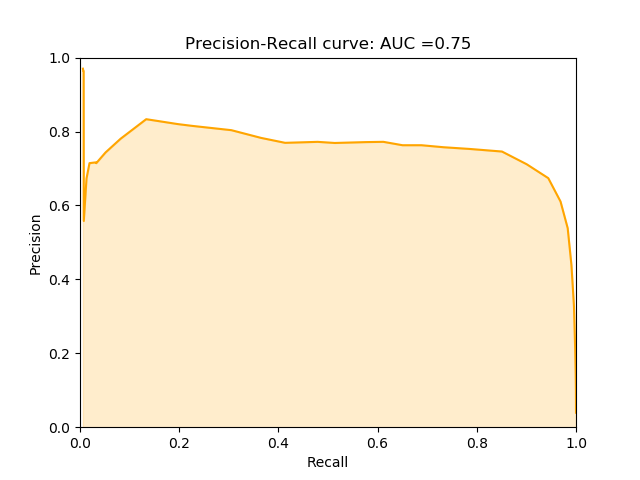
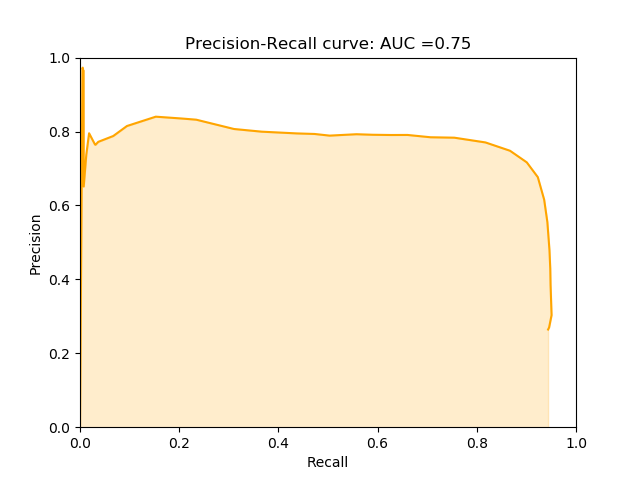
remove shadows

Changed region(s): [[0.1875, 0.2188, 0.9062, 0.9062], [0.125, 0.25, 0.1875, 0.4688]]

diff --git a/video_surveillance.py b/video_surveillance.py
@@ -350,9 +350,21 @@ def foreground_estimation(cf):
                         foreground = foreground_improving.remove_small_regions(foreground, cf.area_filtering_P)
 
                     if cf.task_name == 'task3':
-                        foreground = foreground_improving.image_opening(foreground, cf.opening_strel, cf.opening_strel_size)
+                        if cf.dataset_name == 'traffic':
+                            foreground = foreground_improving.image_opening(foreground, cf.opening_strel,
+                                                                            cf.opening_strel_size)
 
-                        foreground = foreground_improving.image_closing(foreground, cf.closing_strel, cf.closing_strel_size)
+                            foreground = foreground_improving.image_closing(foreground, cf.closing_strel,
+                                                                            cf.closing_strel_size)
+                        elif cf.dataset_name == 'fall':
+                            pass
+
+                        elif cf.dataset_name == 'highway':
+                            pass
+
+                    if cf.shadow_remove:
+                        shadow, highlight = foreground_improving.shadow_detection(cf, mean, image, foreground)
+                        foreground = foreground - shadow - highlight
 
                     foreground = np.array(foreground, dtype='uint8')
                     tp_temp, fp_temp, tn_temp, fn_temp = seg_metrics.evaluate_single_image(foreground,
@@ -418,10 +430,16 @@ def foreground_estimation(cf):
                         elif cf.dataset_name == 'highway':
                             pass
 
-
-                    fore = np.array(foreground, dtype='uint8') * 255
                     image_name = os.path.basename(image)
                     image_name = os.path.splitext(image_name)[0]
+                    if cf.shadow_remove:
+                        shadow, highlight = foreground_improving.shadow_detection(cf, mean, image, foreground)
+                        foreground = foreground - shadow - highlight
+                        shadow_comp = np.stack([foreground, shadow, highlight], axis=2)
+                        cv.imwrite(os.path.join(cf.results_path, 'rgb_' + image_name + '.' + cf.result_image_type),
+                                   shadow_comp * 255)
+
+                    fore = np.array(foreground, dtype='uint8') * 255
                     cv.imwrite(os.path.join(cf.results_path, image_name + '.' + cf.result_image_type), fore)
 
 

diff --git a/config/traffic_background.py b/config/traffic_background.py
@@ -19,8 +19,8 @@ modelling_method              = 'adaptive'      # adaptive, non-adaptive
 color_images                  = True            # Use RGB, HSV color channels
 color_space                   = "RGB"           # RGB, HSV
 evaluate_foreground           = True
-evaluate_alpha_range          = [0, 10]     # range of alpha values
-evaluate_alpha_values         = 40          # number of alpha values to evaluate
+evaluate_alpha_range          = [0, 25]     # range of alpha values
+evaluate_alpha_values         = 100         # number of alpha values to evaluate
 evaluate_rho_range            = [0, 1]      # range of rho values
 evaluate_rho_values           = 20          # number of rho values to evaluate
 find_best_parameters          = False
@@ -39,6 +39,7 @@ closing_strel                 = 'diamond'
 closing_strel_size            = 10
 area_filtering                = True
 area_filtering_P              = 820
+shadow_remove                 = True
 
 # Save results
 save_results                 = True        # Save Log file

diff --git a/tools/foreground_improving.py b/tools/foreground_improving.py
@@ -173,13 +173,7 @@ def shadow_detection(cf, back, image_path, foreground):
     cd = np.linalg.norm(image - (np.stack([bd, bd, bd], axis=2) * back), axis=2)
 
     cd_filter = cd < 10
-    shadow = cd_filter * (1 > bd) * (bd > 0.5)
-    highlight = cd_filter * (1.25 > bd) * (bd > 1)
-
-    if cf.save_results:
-        image_name = os.path.basename(image_path)
-        image_name = os.path.splitext(image_name)[0]
-        cv.imwrite(os.path.join(cf.results_path, 'shadow_' + image_name + '.' + cf.result_image_type), shadow * 255)
-        cv.imwrite(os.path.join(cf.results_path, 'high_' + image_name + '.' + cf.result_image_type), highlight * 255)
+    shadow = cd_filter * (1 > bd) * (bd > 0.5) * 1
+    highlight = cd_filter * (1.25 > bd) * (bd > 1) * 1
 
     return shadow, highlight

diff --git a/config/highway_background.py b/config/highway_background.py
@@ -32,13 +32,14 @@ AUC_area_filtering            = False		 # Plot AUC vs P pixels
 P_pixels_range                = [0, 1000]    # range of P pixels
 P_pixels_values               = 40
 
-task_name                     = 'task1'      # else task1, task2
+task_name                     = 'task3'      # else task1, task2
 opening_strel                 = 'square'
 opening_strel_size            = 5
 closing_strel                 = 'diamond'
 closing_strel_size            = 10
 area_filtering                = False
 area_filtering_P              = 128
+shadow_remove                 = True
 
 # Save results
 save_results                 = True        # Save Log file

diff --git a/config/fall_background.py b/config/fall_background.py
@@ -39,6 +39,7 @@ closing_strel                 = 'diamond'
 closing_strel_size            = 10
 area_filtering                = False
 area_filtering_P              = 1000
+shadow_remove                 = True
 
 # Save results
 save_results                 = True        # Save Log file
